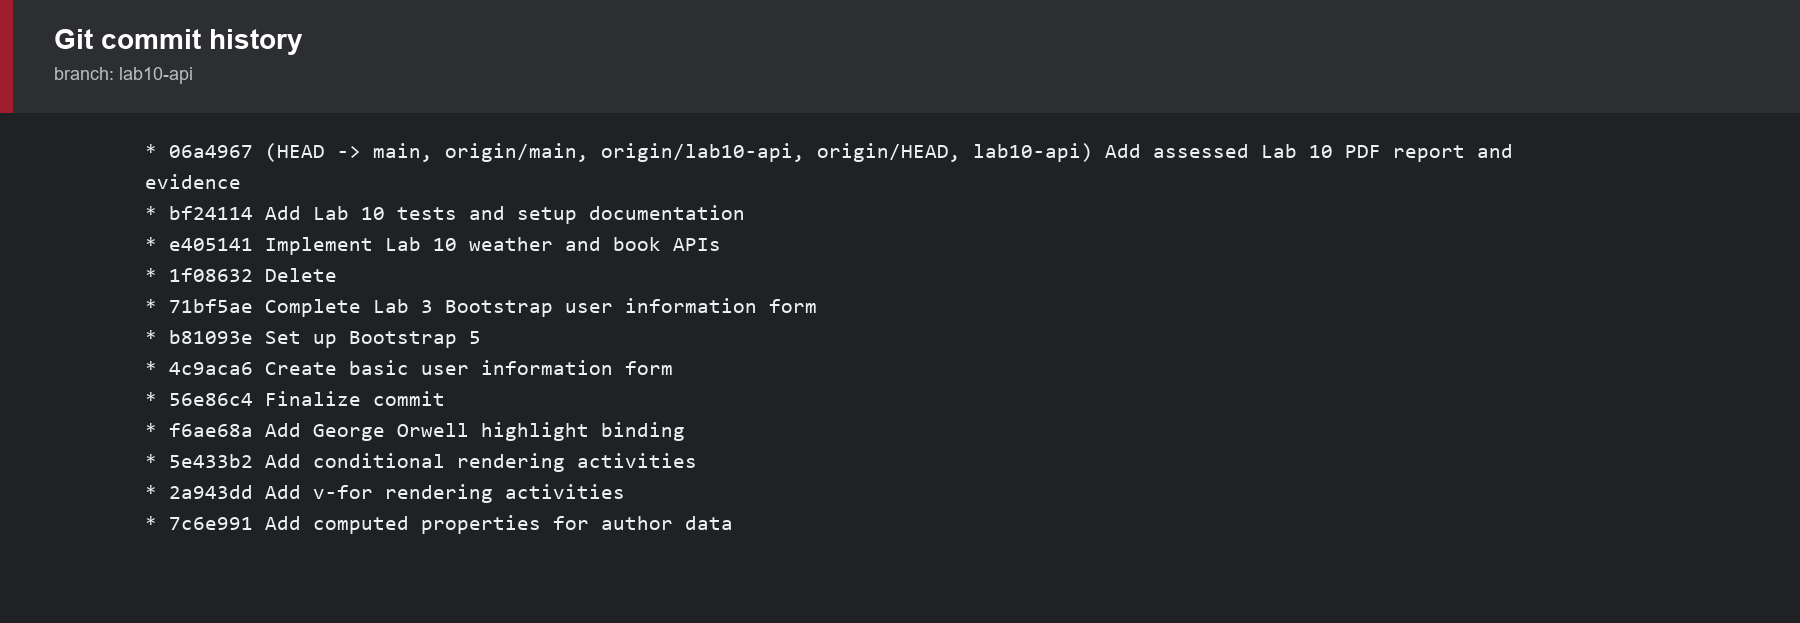
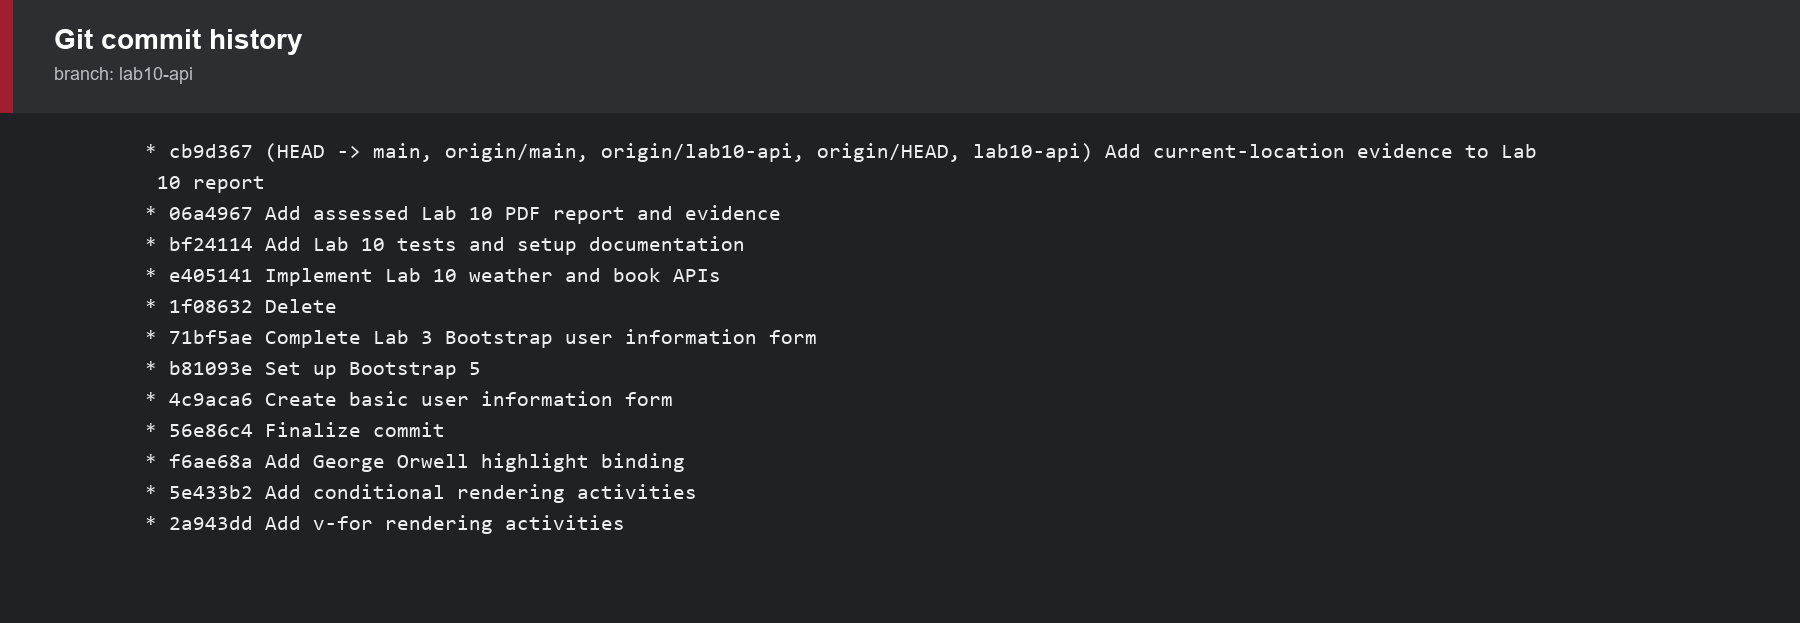
Make report headings black

diff --git a/report/generate_report.py b/report/generate_report.py
@@ -217,7 +217,7 @@ def build_styles() -> dict[str, ParagraphStyle]:
             fontName="Arial-Bold",
             fontSize=18,
             leading=22,
-            textColor=colors.HexColor("#8e1928"),
+            textColor=colors.black,
             spaceBefore=8,
             spaceAfter=8,
         ),
@@ -227,7 +227,7 @@ def build_styles() -> dict[str, ParagraphStyle]:
             fontName="Arial-Bold",
             fontSize=13,
             leading=16,
-            textColor=colors.HexColor("#242629"),
+            textColor=colors.black,
             spaceBefore=8,
             spaceAfter=6,
         ),
@@ -247,7 +247,7 @@ def build_styles() -> dict[str, ParagraphStyle]:
             fontSize=25,
             leading=30,
             alignment=TA_CENTER,
-            textColor=colors.HexColor("#202124"),
+            textColor=colors.black,
         ),
         "CoverSub": ParagraphStyle(
             "CoverSub",
@@ -256,7 +256,7 @@ def build_styles() -> dict[str, ParagraphStyle]:
             fontSize=15,
             leading=20,
             alignment=TA_CENTER,
-            textColor=colors.HexColor("#55595e"),
+            textColor=colors.black,
         ),
         "Small": ParagraphStyle(
             "Small",
